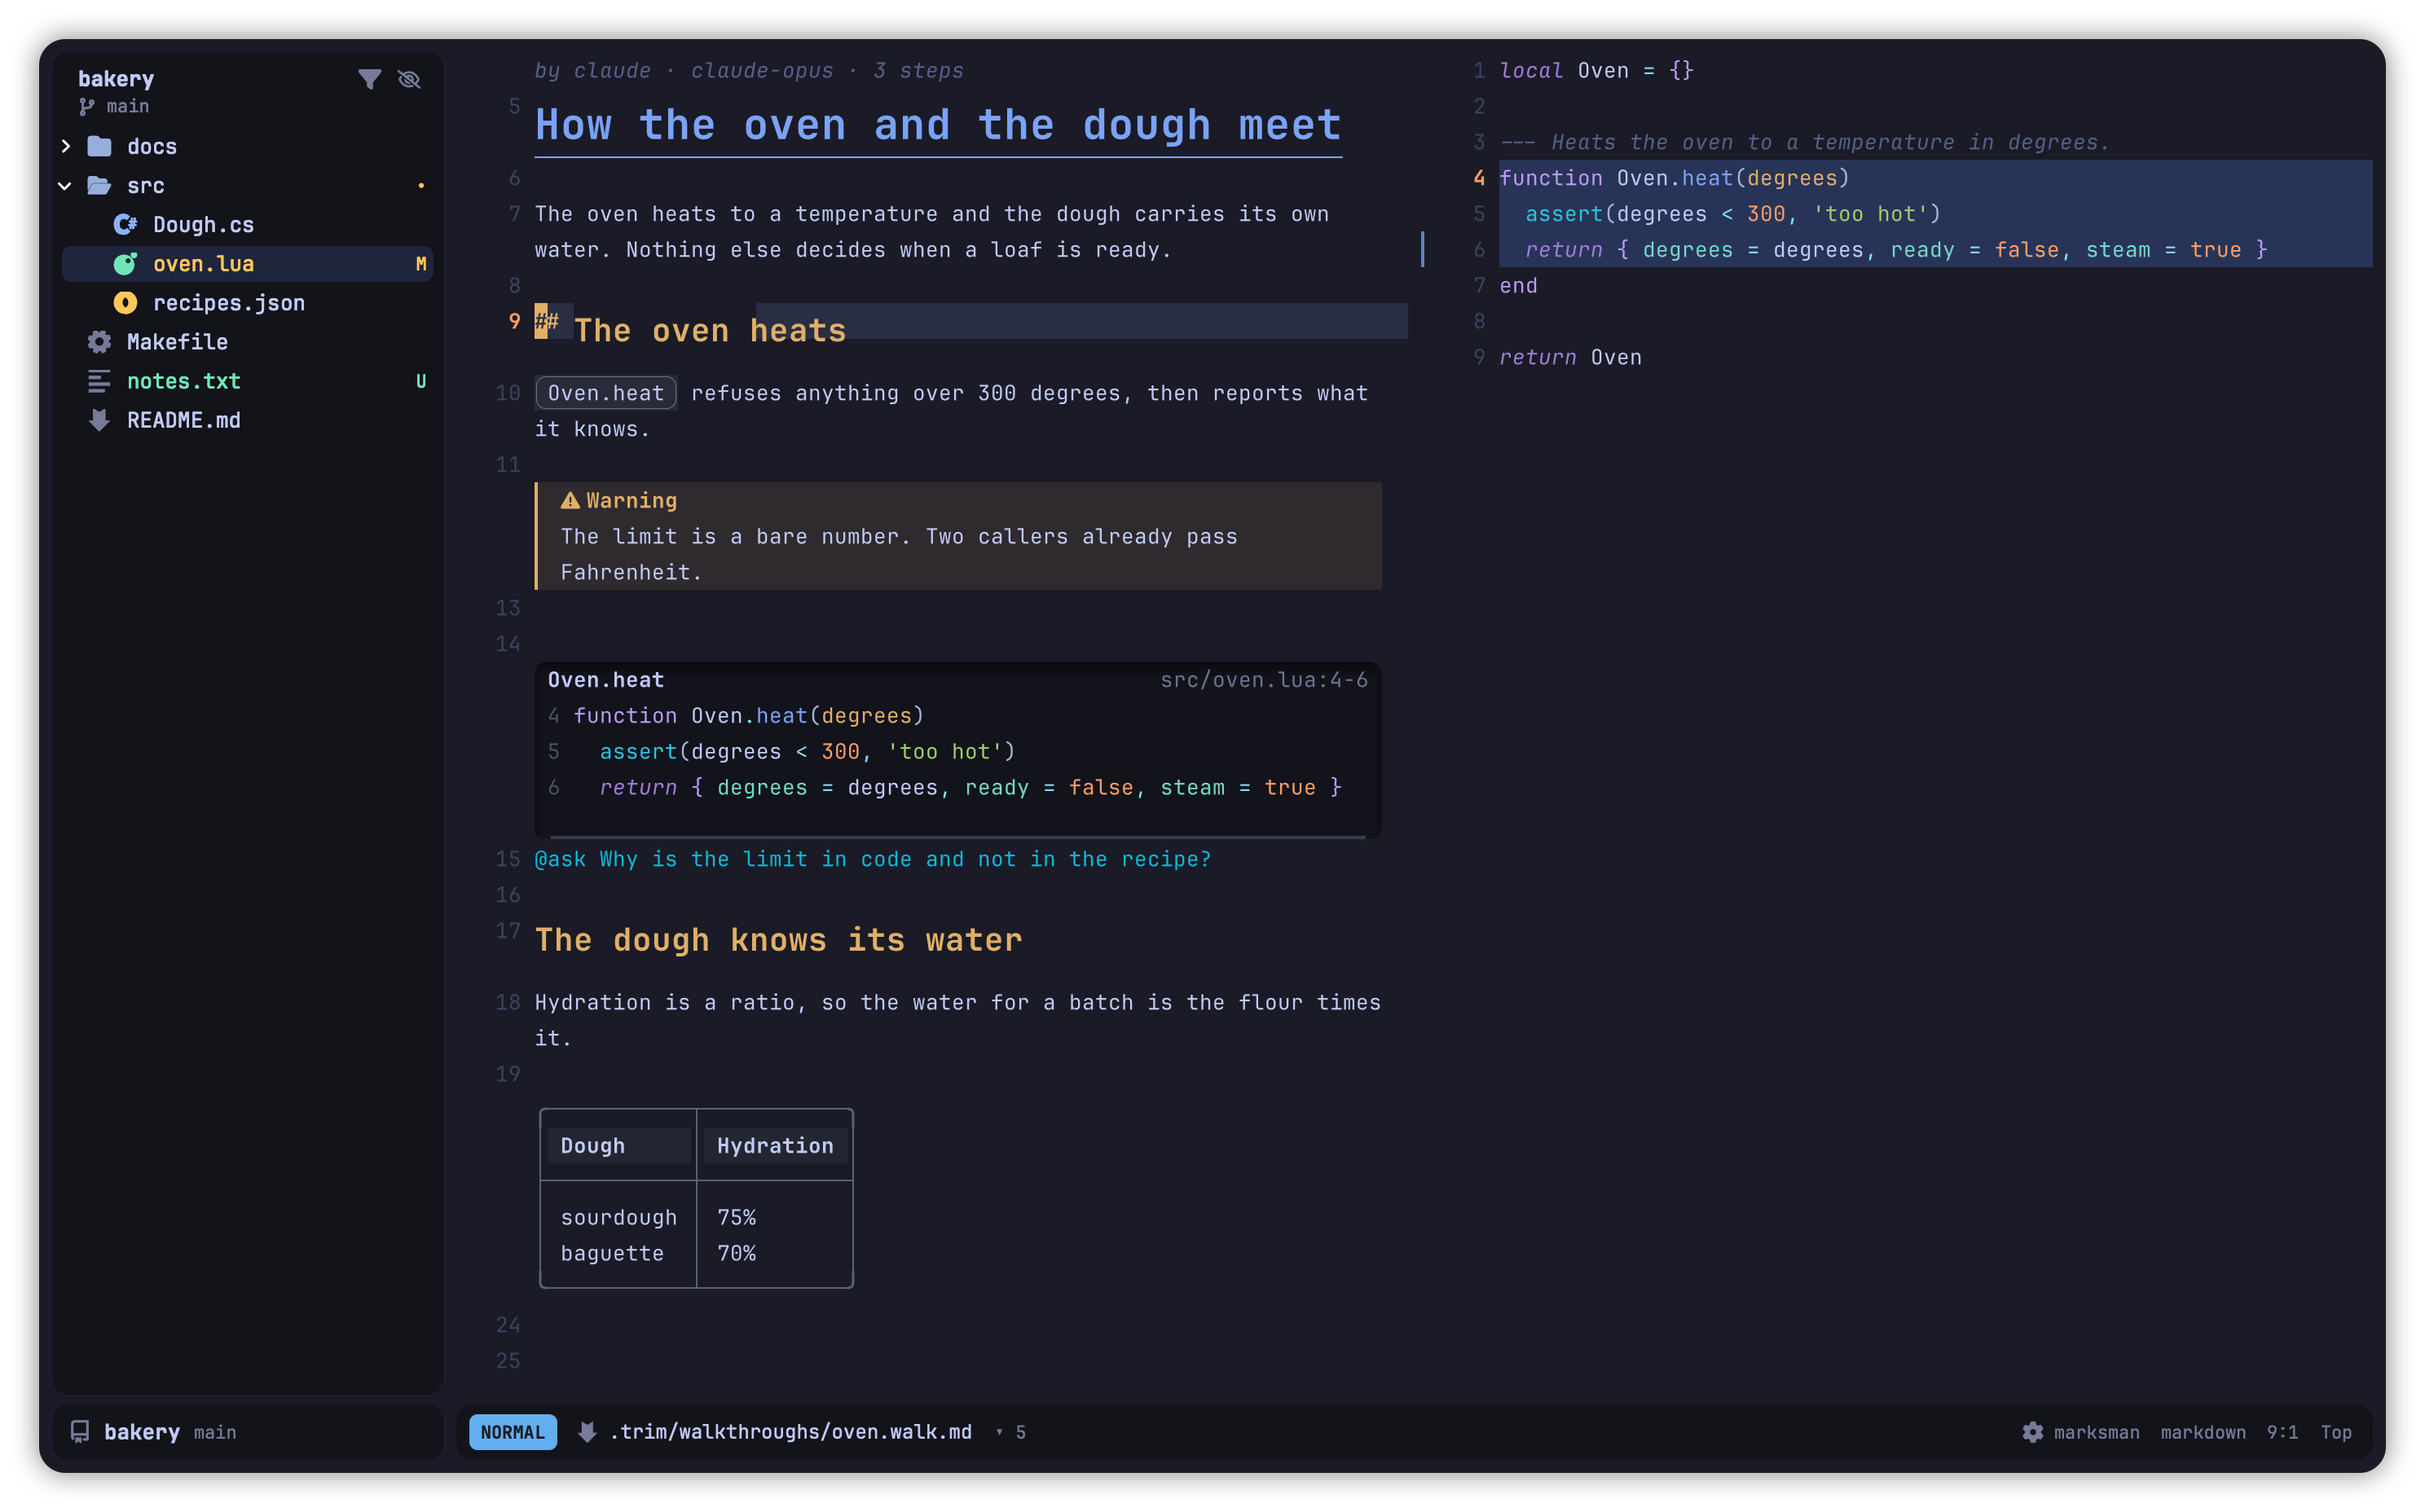
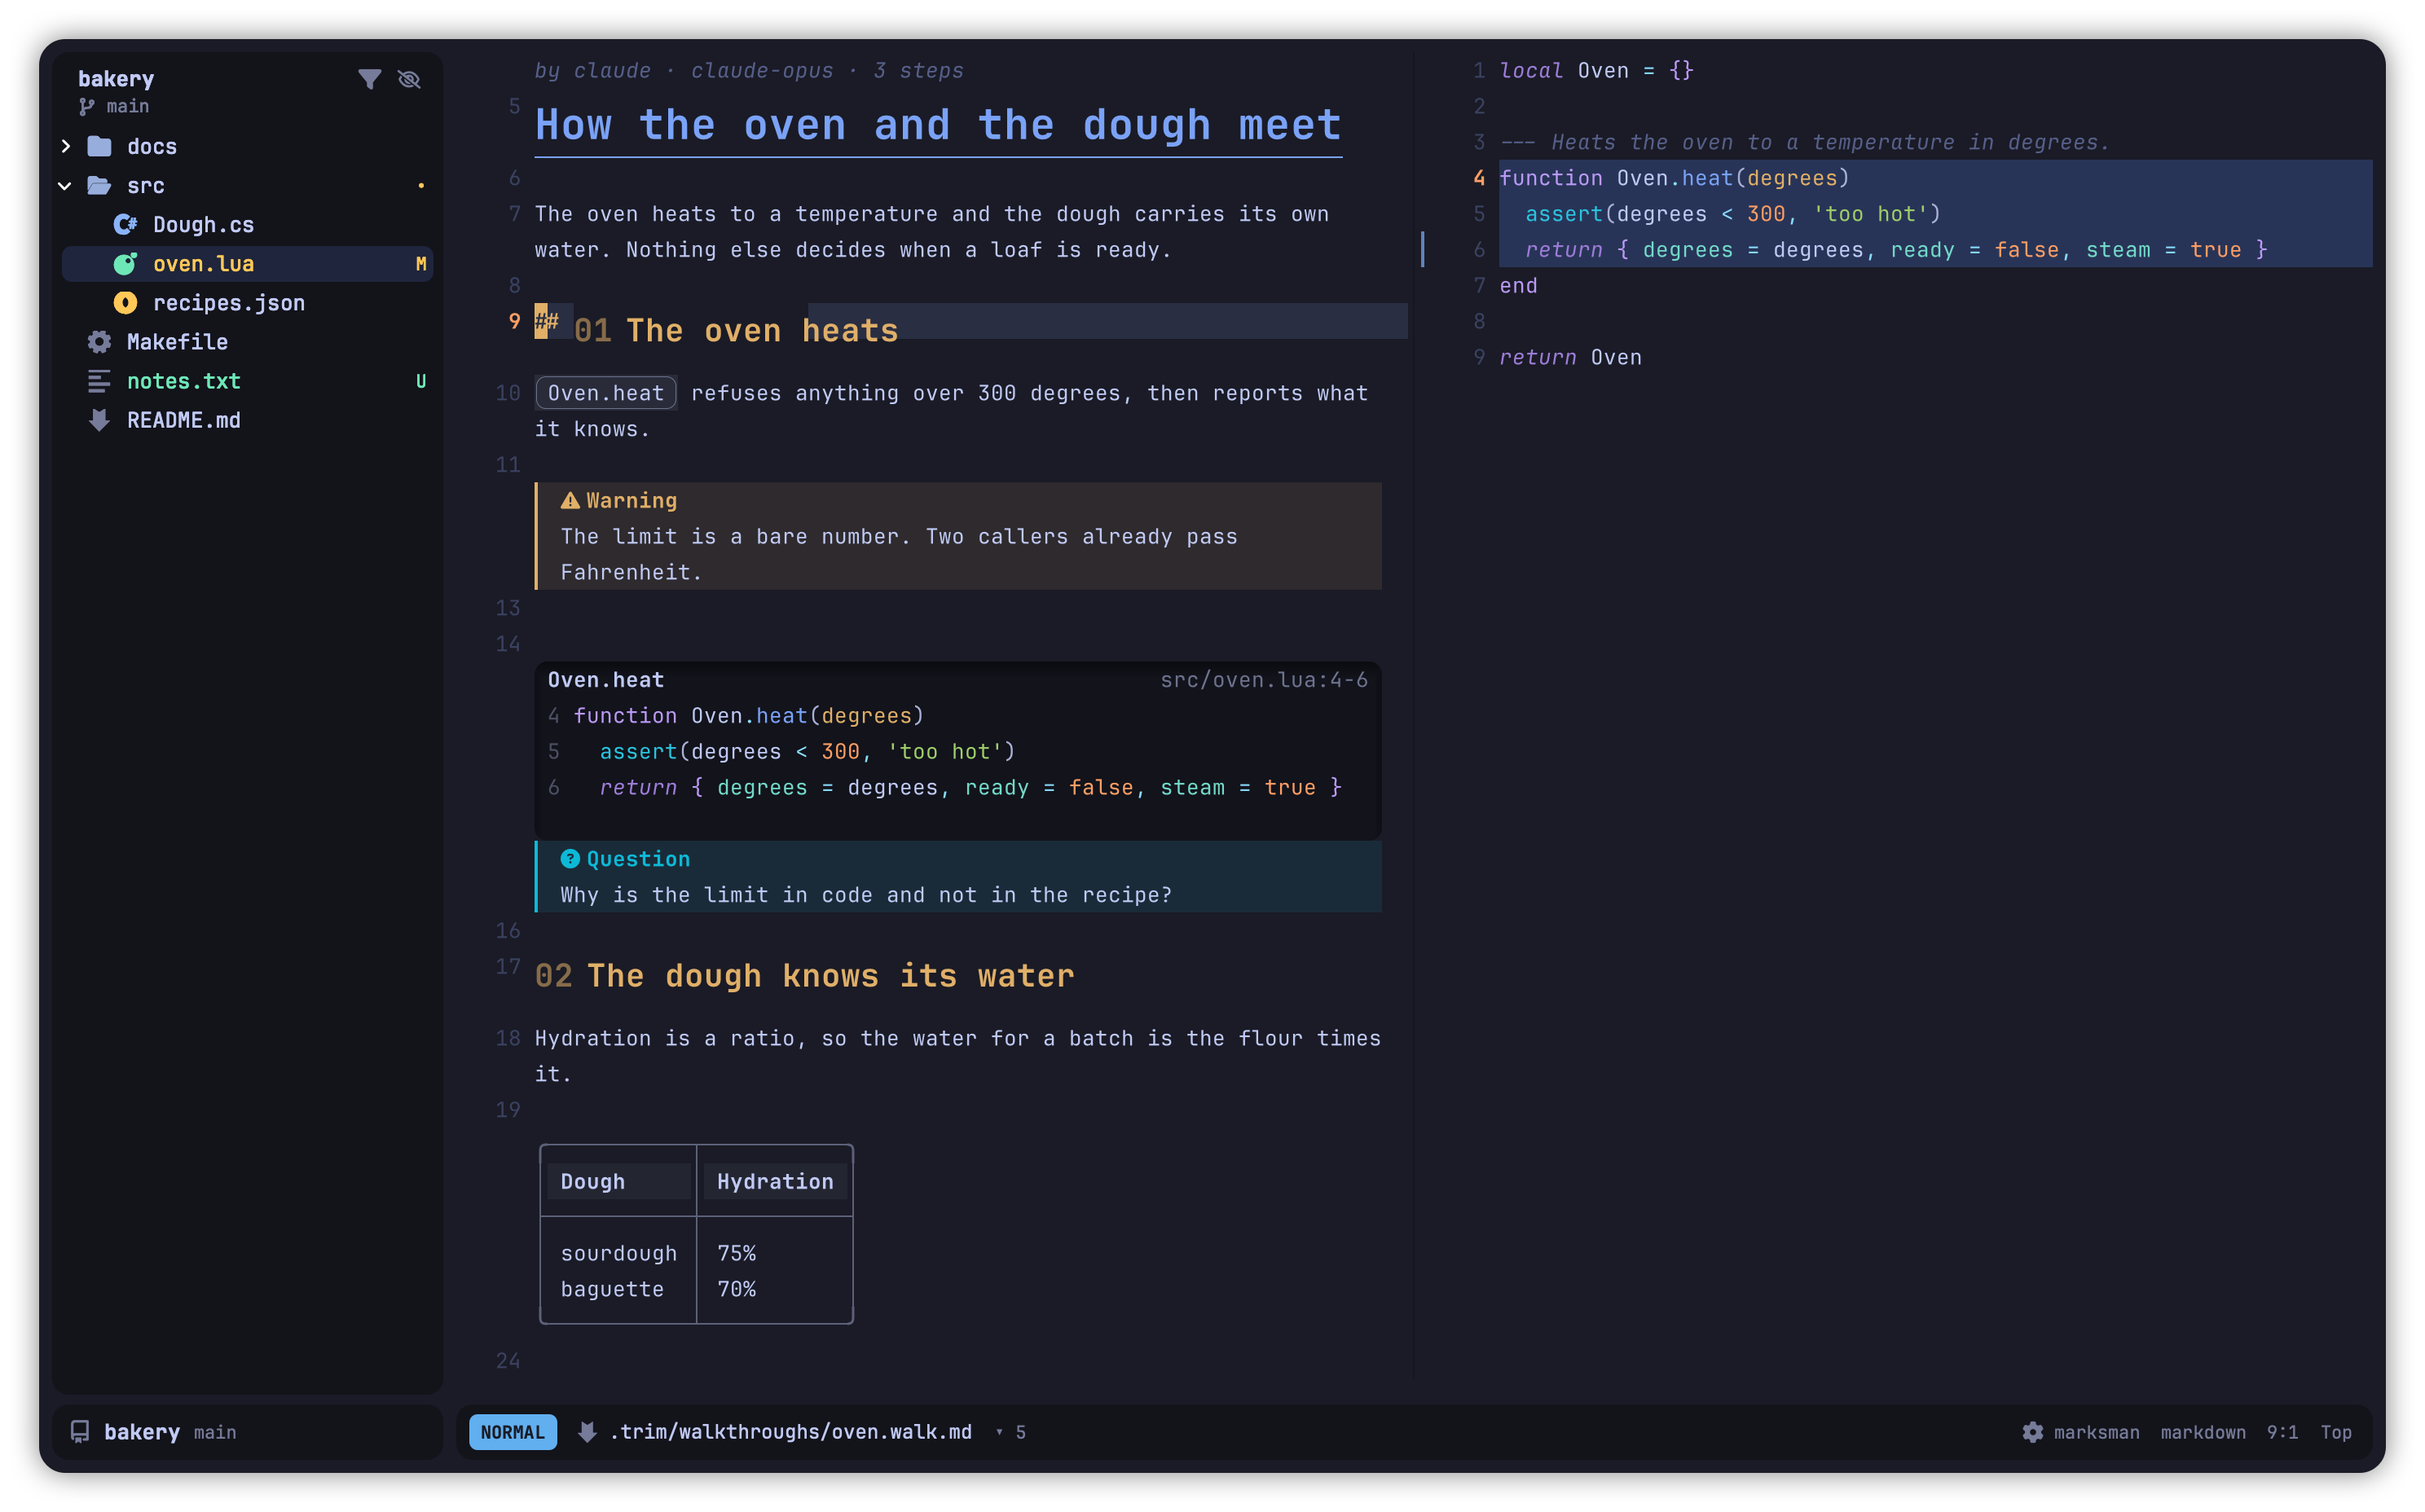
Cards have no bottom line; steps are numbered and @ask is a question block
The line along a card's bottom edge and the faint lip are gone (the freshness colour stays on the header's chip). In a walkthrough the ## headings carry their number before them at the heading's size, and an @ask with the > answer after it is a question block (source again under the cursor). A card sorts before the markdown blocks on the same line.

Changed region(s): [[0.2188, 0.5625, 0.5625, 0.6875], [0.2188, 0.75, 0.3438, 0.875], [0.25, 0.1875, 0.375, 0.25]]

diff --git a/Tests/TrimTreeTests/MdBlocksLuaTests.swift b/Tests/TrimTreeTests/MdBlocksLuaTests.swift
@@ -113,4 +113,38 @@ struct MdBlocksLuaTests {
         assert(vim.inspect(rows) == vim.inspect({ 12, 13 }), 'only the callout is hidden: ' .. vim.inspect(rows))
         """)
     }
+
+    @Test(
+        "an @ask is a question block with its answer, numbered steps get their number before the heading, and both are source under the cursor"
+    )
+    func askAndSteps() throws {
+        try check("""
+        local md = require('trim.mdstyle')
+        vim.cmd('enew')
+        local lines = { '# T', '', '## First', 'text', '@ask Why is it so?', '> Because.', '> Really.', '', '## Second', 'more' }
+        vim.api.nvim_buf_set_lines(0, 0, -1, false, lines)
+        vim.api.nvim_win_set_cursor(0, { 1, 0 })
+        md.apply(0, lines, 0, { steps = true })
+        local marks = vim.api.nvim_buf_get_extmarks(0, md.ns, 0, -1, { details = true })
+        local numbers, hidden, drawn = {}, {}, ''
+        for _, m in ipairs(marks) do
+          if m[4].virt_text_pos == 'inline' then numbers[#numbers + 1] = { m[2] + 1, m[4].virt_text[1][1] } end
+          if m[4].conceal_lines then hidden[#hidden + 1] = m[2] + 1 end
+          for _, row in ipairs(m[4].virt_lines or {}) do for _, c in ipairs(row) do drawn = drawn .. c[1] end end
+        end
+        assert(vim.inspect(numbers) == vim.inspect({ { 3, '01  ' }, { 9, '02  ' } }), 'steps: ' .. vim.inspect(numbers))
+        table.sort(hidden)
+        assert(vim.inspect(hidden) == vim.inspect({ 5, 6, 7 }), 'the question and answer are hidden: ' .. vim.inspect(hidden))
+        assert(drawn:find('Question', 1, true) and drawn:find('Why is it so?', 1, true) and drawn:find('Because.', 1, true), drawn)
+        vim.api.nvim_win_set_cursor(0, { 6, 0 })
+        md.restyle(0)
+        marks = vim.api.nvim_buf_get_extmarks(0, md.ns, 0, -1, { details = true })
+        for _, m in ipairs(marks) do assert(not m[4].conceal_lines, 'source while the cursor is in the block') end
+        local plain = {}
+        md.apply(0, lines, 0)
+        for _, m in ipairs(vim.api.nvim_buf_get_extmarks(0, md.ns, 0, -1, { details = true })) do
+          assert(m[4].virt_text_pos ~= 'inline', 'no step numbers outside a walkthrough')
+        end
+        """)
+    }
 }

diff --git a/Sources/SillRender/Shaders.swift b/Sources/SillRender/Shaders.swift
@@ -85,8 +85,8 @@ enum Shaders {
             alpha *= step(fmod(in.local.x, in.thickness * 2.0), in.thickness);
         } else if (in.kind >= kindCardTop && in.kind <= kindCardBottom) {
             // A row of a sunken, rounded block: `thickness` is the device pixels to a point. Corners are rounded at the
-            // block's top (first row) and bottom (last); the fill is shaded darker along its top and sides, and the bottom
-            // edge has a faint lip, so it reads as set into the page.
+            // block's top (first row) and bottom (last); the fill is shaded darker along its top and sides, so it
+            // reads as set into the page.
             float u = in.thickness;
             float radius = 8.0 * u;
             float2 half_size = in.size * 0.5;
@@ -103,10 +103,6 @@ enum Shaders {
             float shade = 0.22 * clamp(1.0 - side / (5.0 * u), 0.0, 1.0);
             if (top) { shade = max(shade, 0.42 * clamp(1.0 - in.local.y / (10.0 * u), 0.0, 1.0)); }
             float3 rgb = in.color.rgb * (1.0 - shade);
-            if (bottom) {
-                float lip = clamp(1.0 - (in.size.y - in.local.y) / (1.5 * u), 0.0, 1.0);
-                rgb = mix(rgb, float3(1.0), 0.08 * lip);
-            }
             return float4(rgb * coverage, coverage);
         } else if (in.kind == kindBorder) {
             // A rounded outline just inside the rect: the distance to its edge, kept to a band `thickness` wide.

diff --git a/Tests/TrimTreeTests/WalkCardLuaTests.swift b/Tests/TrimTreeTests/WalkCardLuaTests.swift
@@ -112,7 +112,7 @@ struct WalkCardLuaTests {
     }
 
     @Test(
-        "a card's rows are marked for the grid: its header the first row, its body the middle and its bottom edge the last, in the freshness colour"
+        "a card's rows are marked for the grid: its header the first row, its body the middle and its bottom the last, with no line along it"
     )
     func rows() throws {
         try check("""
@@ -132,9 +132,8 @@ struct WalkCardLuaTests {
         assert(head[98] and not head[97] and not head[96], 'header is the top row')
         assert(middle[97] and not middle[98] and not middle[96], 'the body is the middle')
         assert(last[96] and not last[97], 'the last row is the bottom')
-        local edge = vim.api.nvim_get_hl(0, { name = last and lines[#lines][#lines[#lines]][2], link = false })
-        local warn = vim.api.nvim_get_hl(0, { name = 'DiagnosticWarn', link = false }).fg
-        assert(edge.sp == warn, 'the bottom edge is in the freshness colour')
+        local edge = vim.api.nvim_get_hl(0, { name = lines[#lines][#lines[#lines]][2], link = false })
+        assert(edge.sp == nil, 'no line along the bottom')
         local normal = vim.api.nvim_get_hl(0, { name = 'Normal', link = false })
         assert(vim.api.nvim_get_hl(0, { name = 'TrimCardBody', link = false }).bg ~= normal.bg, 'the fill is not the page')
         """)

diff --git a/docs/code/walkthroughs.md b/docs/code/walkthroughs.md
@@ -34,7 +34,8 @@ when the table is wider than the window, `**bold**`, `*italic*`, `` `code` `` an
 (`> [!warning] text`; also note, tip, important, caution, danger, risk, question, verified, asserted) as a tinted block with an
 accent bar in its colour and its kind named; a plain `>` quote has a quiet bar. Move the cursor onto one and it is source
 again, so editing is never in the way. Checklist items are boxes (☐ ☑), done items struck through, with a count (`2 of 4`)
-on the first item. Fenced blocks sit on a tint with their language named. This applies to every markdown file you edit.
+on the first item. Fenced blocks sit on a tint with their language named. In a walkthrough the steps are numbered (`01  The oven heats`), and an
+`@ask` with the `>` answer after it is a question block (the answer in it, the source again under the cursor). This applies to every markdown file you edit.
 
 ## Cards
 
